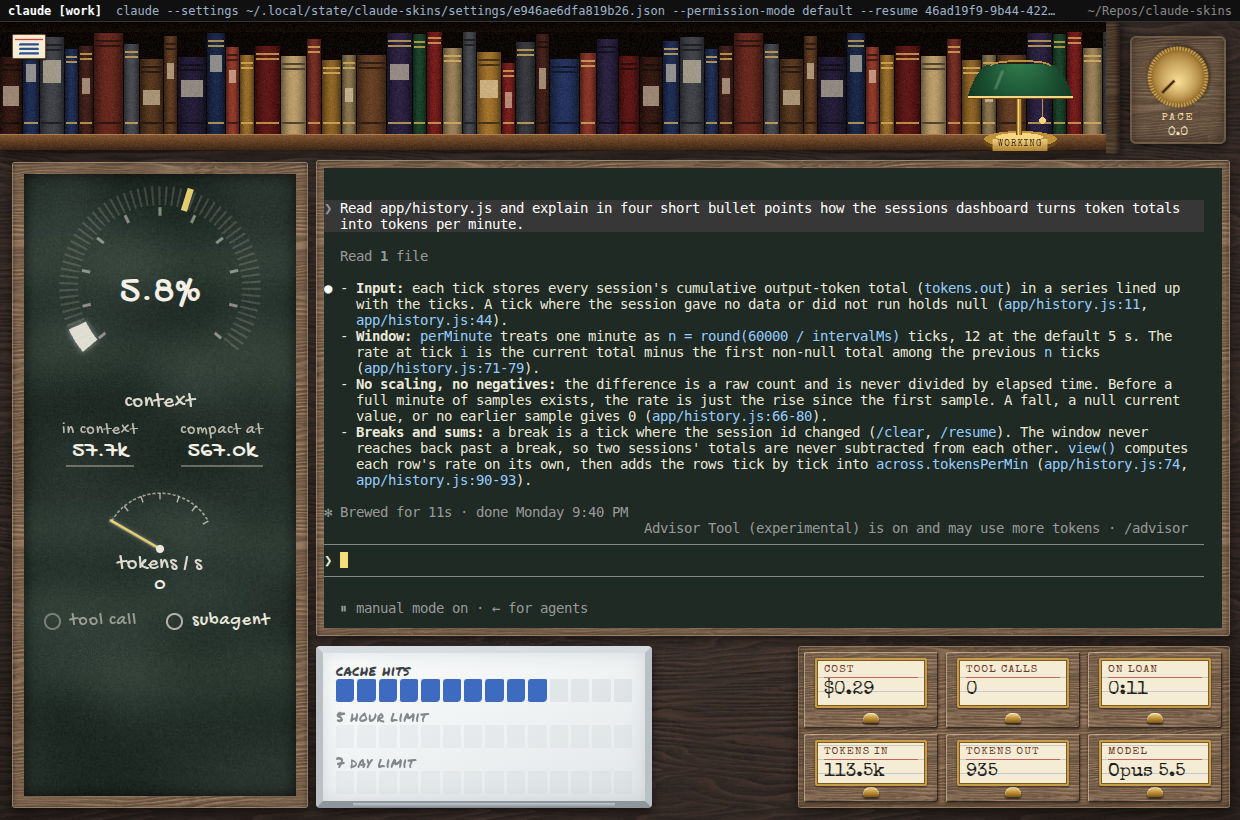
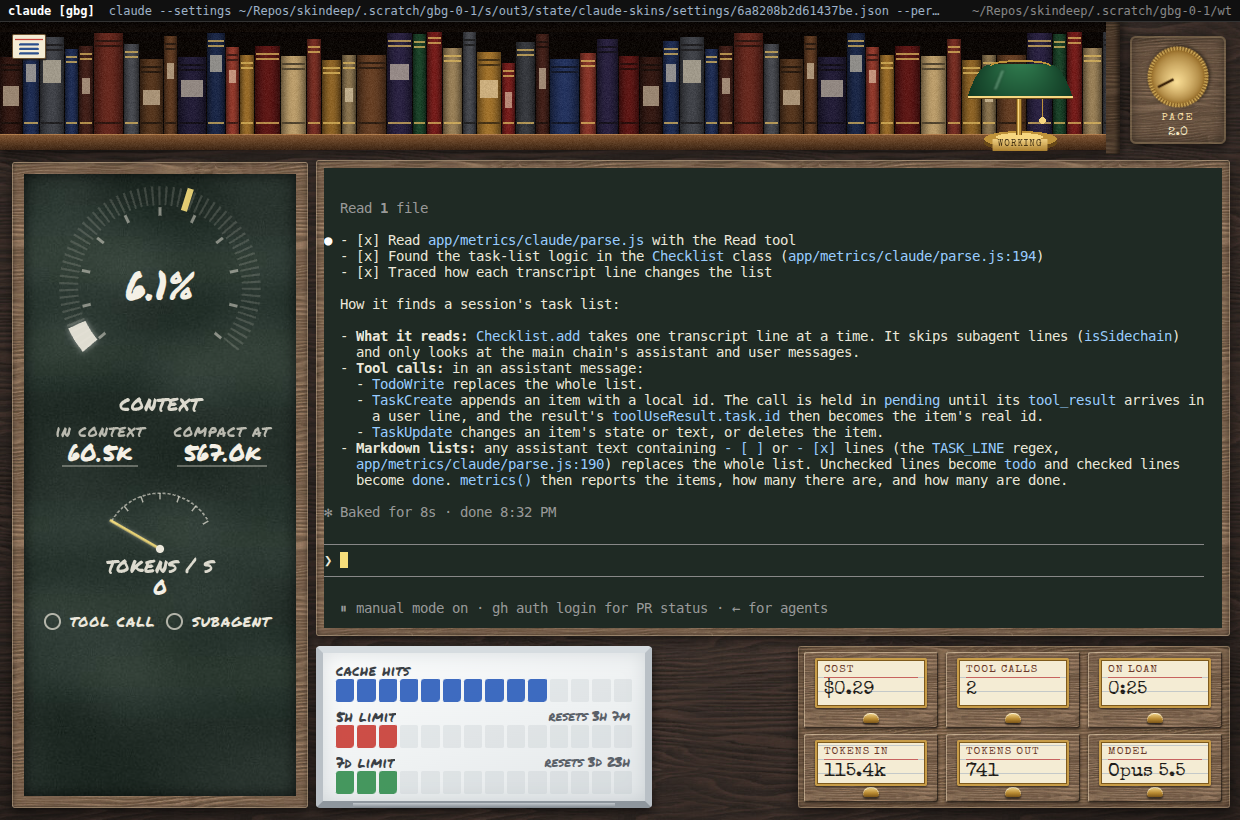
docs(readme): retake the screenshots from the app as it is now
The five screenshots and the modes sheet dated from 2026-10-14 and
missed the tab strip's traces, the task list and its toggle, the usage
limit meters, coffee's jars and the newer visualization modes. They are
retaken by scripts/shots.js on a real Claude Code session: the hero
shows deck with an answer and its task list, the limits, two tabs with
the second at work, and the visualization window's two panes. The skin
shots show the same session, and the sheet now has six procedural
modes, so the README says six.

The alt text says what the new images show, the Development section
names the script, and ASSETS.json names the script as each image's
source and lists docs/viz-modes.png, which it lacked.

diff --git a/README.md b/README.md
@@ -15,7 +15,7 @@ needles and lamps that move with what the agent is doing, and a second
 window draws a visualizer from it. Its commands are `claude-skins`,
 `codex-skins` and `skinned`.
 
-![skindeep running Claude Code in the deck skin, two tabs open, with the visualization window](docs/screenshot.png)
+![skindeep running Claude Code in the deck skin: an answer in the first of two tabs, its task list beside it, the usage limits at the top right, a trace of each tab in the tab strip, and the visualization window with a pane per tab](docs/screenshot.png)
 
 The gauges show how full the context is, how near auto-compact is, the
 session's cost, your usage limits, and the tools and helpers the agent
@@ -89,7 +89,7 @@ tab strip: a moving band while its agent works, a flat green line once
 it is done.
 **Visualization input** in the menu switches it to what your speakers
 play, and it never records a microphone. Each pane has a drop-down at
-its top left to pick its mode, and space steps through them all, five
+its top left to pick its mode, and space steps through them all, six
 of which [docs/viz-modes.png](docs/viz-modes.png) shows. A click goes
 to the mode: a drag in Quantum raises a barrier, and a click in Go
 plays a stone.
@@ -98,9 +98,9 @@ plays a stone.
 
 | deck | phosphor |
 | --- | --- |
-| ![deck](docs/skins/deck.png) | ![phosphor](docs/skins/phosphor.png) |
+| ![deck, with the task list in its playlist area](docs/skins/deck.png) | ![phosphor](docs/skins/phosphor.png) |
 | **library** | **coffee** |
-| ![library](docs/skins/library.png) | ![coffee](docs/skins/coffee.png) |
+| ![library](docs/skins/library.png) | ![coffee, with the task list on its slate and a jar per usage limit](docs/skins/coffee.png) |
 
 A plain `claude-skins` opens the skin you used last, and you can mute
 its sounds from the menu or start muted with `skinned --mute` or
@@ -123,7 +123,8 @@ the checkout, which moves every meter without spending tokens:
 ## Development
 
 `npm test` runs the tests, `scripts/checks/` holds live checks that run
-under Xvfb, and `scripts/fuzz/` a fuzz harness. The design is in
+under Xvfb, `scripts/fuzz/` a fuzz harness, and `scripts/shots.js`
+retakes this page's screenshots with two real prompts. The design is in
 [docs/DESIGN.md](docs/DESIGN.md), how it was built, chapter by chapter,
 in the [dev diary](docs/diary/README.md), and [decision 0019](docs/decisions/0019-tests.md)
 says what the tests cover.
